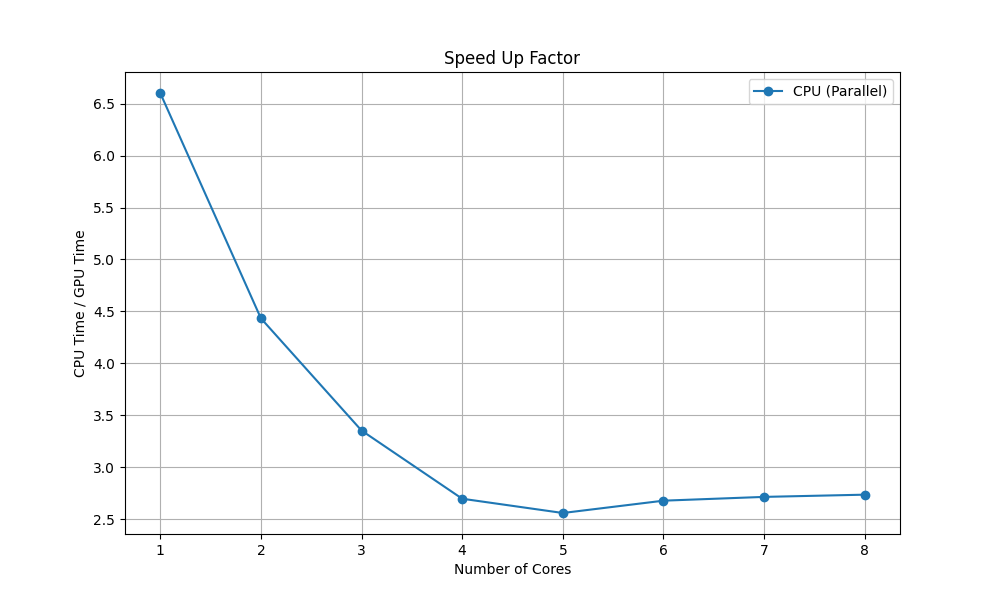
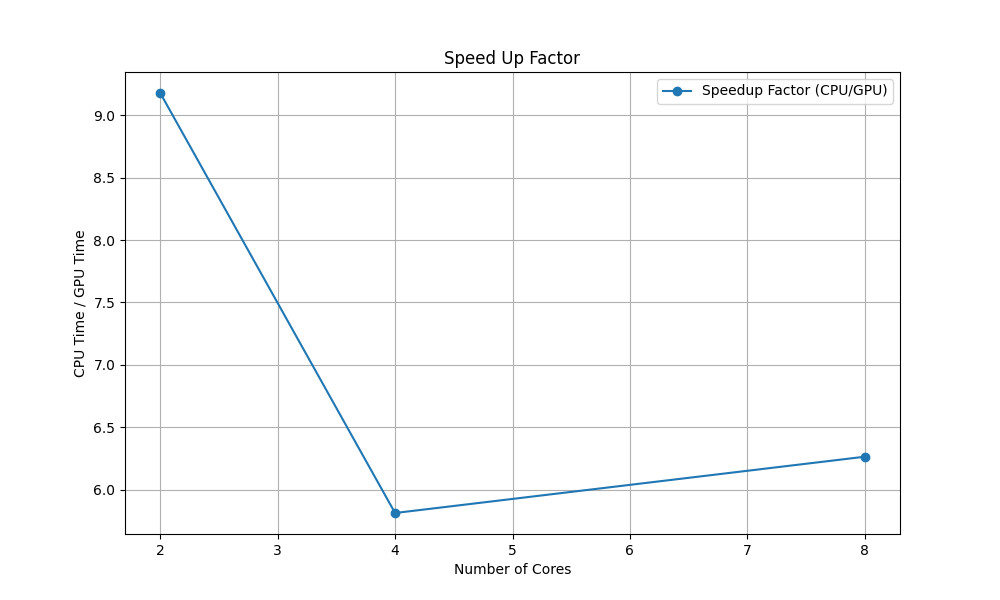
benchmark plots

diff --git a/scripts/matchfilter_benchmark.py b/scripts/matchfilter_benchmark.py
@@ -1,0 +1,79 @@
+# matchfilter_benchmark.py runs benchmark and saves result to HDF5 file
+# matchfilter_plot.py reads from HDF5 file to generate plots
+
+# how to run benchmark:
+#   python matchfilter_benchmark.py --list_size_cpu 500 --list_size_gpu 1000 --cores 2 4 8
+#   (this command benchmarks 500 CPU operations, 5000 GPU operations (uses 2,4, and 8 cores for testing))
+
+import numpy as np
+import mlx.core as mx
+from mlx.core.fft import ifft
+import time
+import multiprocessing
+import h5py
+import argparse
+
+def define_match_filter(a, b, stream):
+    product = mx.multiply(a.conj(), b, stream=stream)
+    ifft_result = ifft(product, stream=stream)
+    reshaped_result = ifft_result.reshape(ifft_result.size)
+    return mx.eval(mx.max(reshaped_result, stream=stream))
+
+def frozen_cpumatchfilter(ab):
+    return define_match_filter(*ab, stream=mx.cpu)
+
+def frozen_gpumatchfilter(ab):
+    return define_match_filter(*ab, stream=mx.gpu)
+
+if __name__ == "__main__":
+    parser = argparse.ArgumentParser(description="Benchmark Match Filter Performance on CPU and GPU.")
+    parser.add_argument("--list_size_cpu", type=int, default=1000, help="Number of match filter operations for CPU")
+    parser.add_argument("--list_size_gpu", type=int, default=10000, help="Number of match filter operations for GPU")
+    parser.add_argument("--array_size", type=int, default=int(2**20), help="Size of each array")
+    parser.add_argument("--cores", type=int, nargs="+", default=[1,2,3,4,5,6,7,8], help="List of core counts to test")
+    parser.add_argument("--no_cpu", action="store_true", help="Skip CPU benchmarking")
+    parser.add_argument("--no_gpu", action="store_true", help="Skip GPU benchmarking")
+    parser.add_argument("--output", type=str, default="match_filter_results.h5", help="Output HDF5 file")
+
+    args = parser.parse_args()
+
+    # initialize arrays
+    a_array = mx.array(mx.random.normal(shape=(args.array_size,), dtype=mx.float32) +
+                       1j * mx.random.normal(shape=(args.array_size,), dtype=mx.float32)) 
+    b_array = mx.array(mx.random.normal(shape=(args.array_size,), dtype=mx.float32) +
+                       1j * mx.random.normal(shape=(args.array_size,), dtype=mx.float32)) 
+
+    # create lists for CPU and GPU processing
+    ab_list_cpu = list(zip([a_array] * args.list_size_cpu, [b_array] * args.list_size_cpu))
+    ab_list_gpu = list(zip([a_array] * args.list_size_gpu, [b_array] * args.list_size_gpu))
+
+    cpu_times_parallel = []
+    gpu_times_parallel = []
+
+    for ncores in args.cores:
+        with multiprocessing.Pool(ncores) as pool:
+            if not args.no_cpu:
+                start_time = time.perf_counter()
+                list(pool.map(frozen_cpumatchfilter, ab_list_cpu))
+                cpu_time_parallel = time.perf_counter() - start_time
+                cpu_times_parallel.append(cpu_time_parallel / args.list_size_cpu)
+            else:
+                cpu_times_parallel.append(None)  # Placeholder
+
+            if not args.no_gpu:
+                start_time = time.perf_counter()
+                list(pool.map(frozen_gpumatchfilter, ab_list_gpu))
+                gpu_time_parallel = time.perf_counter() - start_time
+                gpu_times_parallel.append(gpu_time_parallel / args.list_size_gpu)
+            else:
+                gpu_times_parallel.append(None)  # Placeholder
+
+    # save results
+    with h5py.File(args.output, "w") as hdf:
+        hdf.create_dataset("test_cores", data=np.array(args.cores))
+        if not args.no_cpu:
+            hdf.create_dataset("cpu_times_parallel", data=np.array(cpu_times_parallel))
+        if not args.no_gpu:
+            hdf.create_dataset("gpu_times_parallel", data=np.array(gpu_times_parallel))
+
+    print(f"Benchmark results saved to {args.output}")

diff --git a/scripts/matchfilter_plot.py b/scripts/matchfilter_plot.py
@@ -1,0 +1,57 @@
+# how to run plotting:
+#   python matchfilter_plot.py --input match_filter_results.h5
+
+import h5py
+import numpy as np
+import matplotlib.pyplot as plt
+import argparse
+
+def plot_results(input_file):
+    with h5py.File(input_file, "r") as hdf:
+        test_cores = hdf["test_cores"][:]
+        cpu_times_parallel = hdf.get("cpu_times_parallel", None)
+        gpu_times_parallel = hdf.get("gpu_times_parallel", None)
+
+        if cpu_times_parallel is not None:
+            cpu_times_parallel = hdf["cpu_times_parallel"][:]
+        if gpu_times_parallel is not None:
+            gpu_times_parallel = hdf["gpu_times_parallel"][:]
+
+    plt.figure(figsize=(10, 6))
+
+# only plots if CPU and GPU times are available
+
+    if cpu_times_parallel is not None:
+        plt.plot(test_cores, cpu_times_parallel, label="CPU (Parallel)", marker='o')
+    if gpu_times_parallel is not None:
+        plt.plot(test_cores, gpu_times_parallel, label="GPU (Parallel)", marker='x')
+
+    plt.xlabel("Number of Cores")
+    plt.ylabel("Time (per Match Filter in Seconds)")
+    plt.title("Performance of Match Filter on CPU vs GPU (Parallelized)")
+    plt.legend()
+    plt.grid(True)
+    plt.savefig("match_filter_performance.png")
+    plt.show()
+
+    if cpu_times_parallel is not None and gpu_times_parallel is not None:
+        plt.figure(figsize=(10, 6))
+        plt.plot(test_cores, cpu_times_parallel / gpu_times_parallel, label="Speedup Factor (CPU/GPU)", marker='o')
+        plt.xlabel("Number of Cores")
+        plt.ylabel("CPU Time / GPU Time")
+        plt.title("Speed Up Factor")
+        plt.legend()
+        plt.grid(True)
+        plt.savefig("match_filter_speedupplot.png")
+        plt.show()
+
+# reads CPU & GPU benchmark results
+# plots: time per match filter (CPU vs GPU), Speedup (CPU time divided by GPU time)
+#        save plot as png files
+
+if __name__ == "__main__":
+    parser = argparse.ArgumentParser(description="Plot match filter benchmark results.")
+    parser.add_argument("--input", type=str, default="match_filter_results.h5", help="HDF5 file with benchmark results")
+    args = parser.parse_args()
+
+    plot_results(args.input)

diff --git a/scripts/matchfilter_test.py b/scripts/matchfilter_test.py
@@ -21,7 +21,7 @@ def frozen_gpumatchfilter(ab):
 if __name__ == "__main__":
     list_size = 1000
     list_size_cpu = 1000
-    list_size_gpu = 500
+    list_size_gpu = 10000
     array_size = int(2**20)
     a_array = mx.array(mx.random.normal(shape=(array_size,), dtype=mx.float32) + 1j * mx.random.normal(shape=(array_size,), dtype=mx.float32)) 
     b_array = mx.array(mx.random.normal(shape=(array_size,), dtype=mx.float32) + 1j * mx.random.normal(shape=(array_size,), dtype=mx.float32)) 
